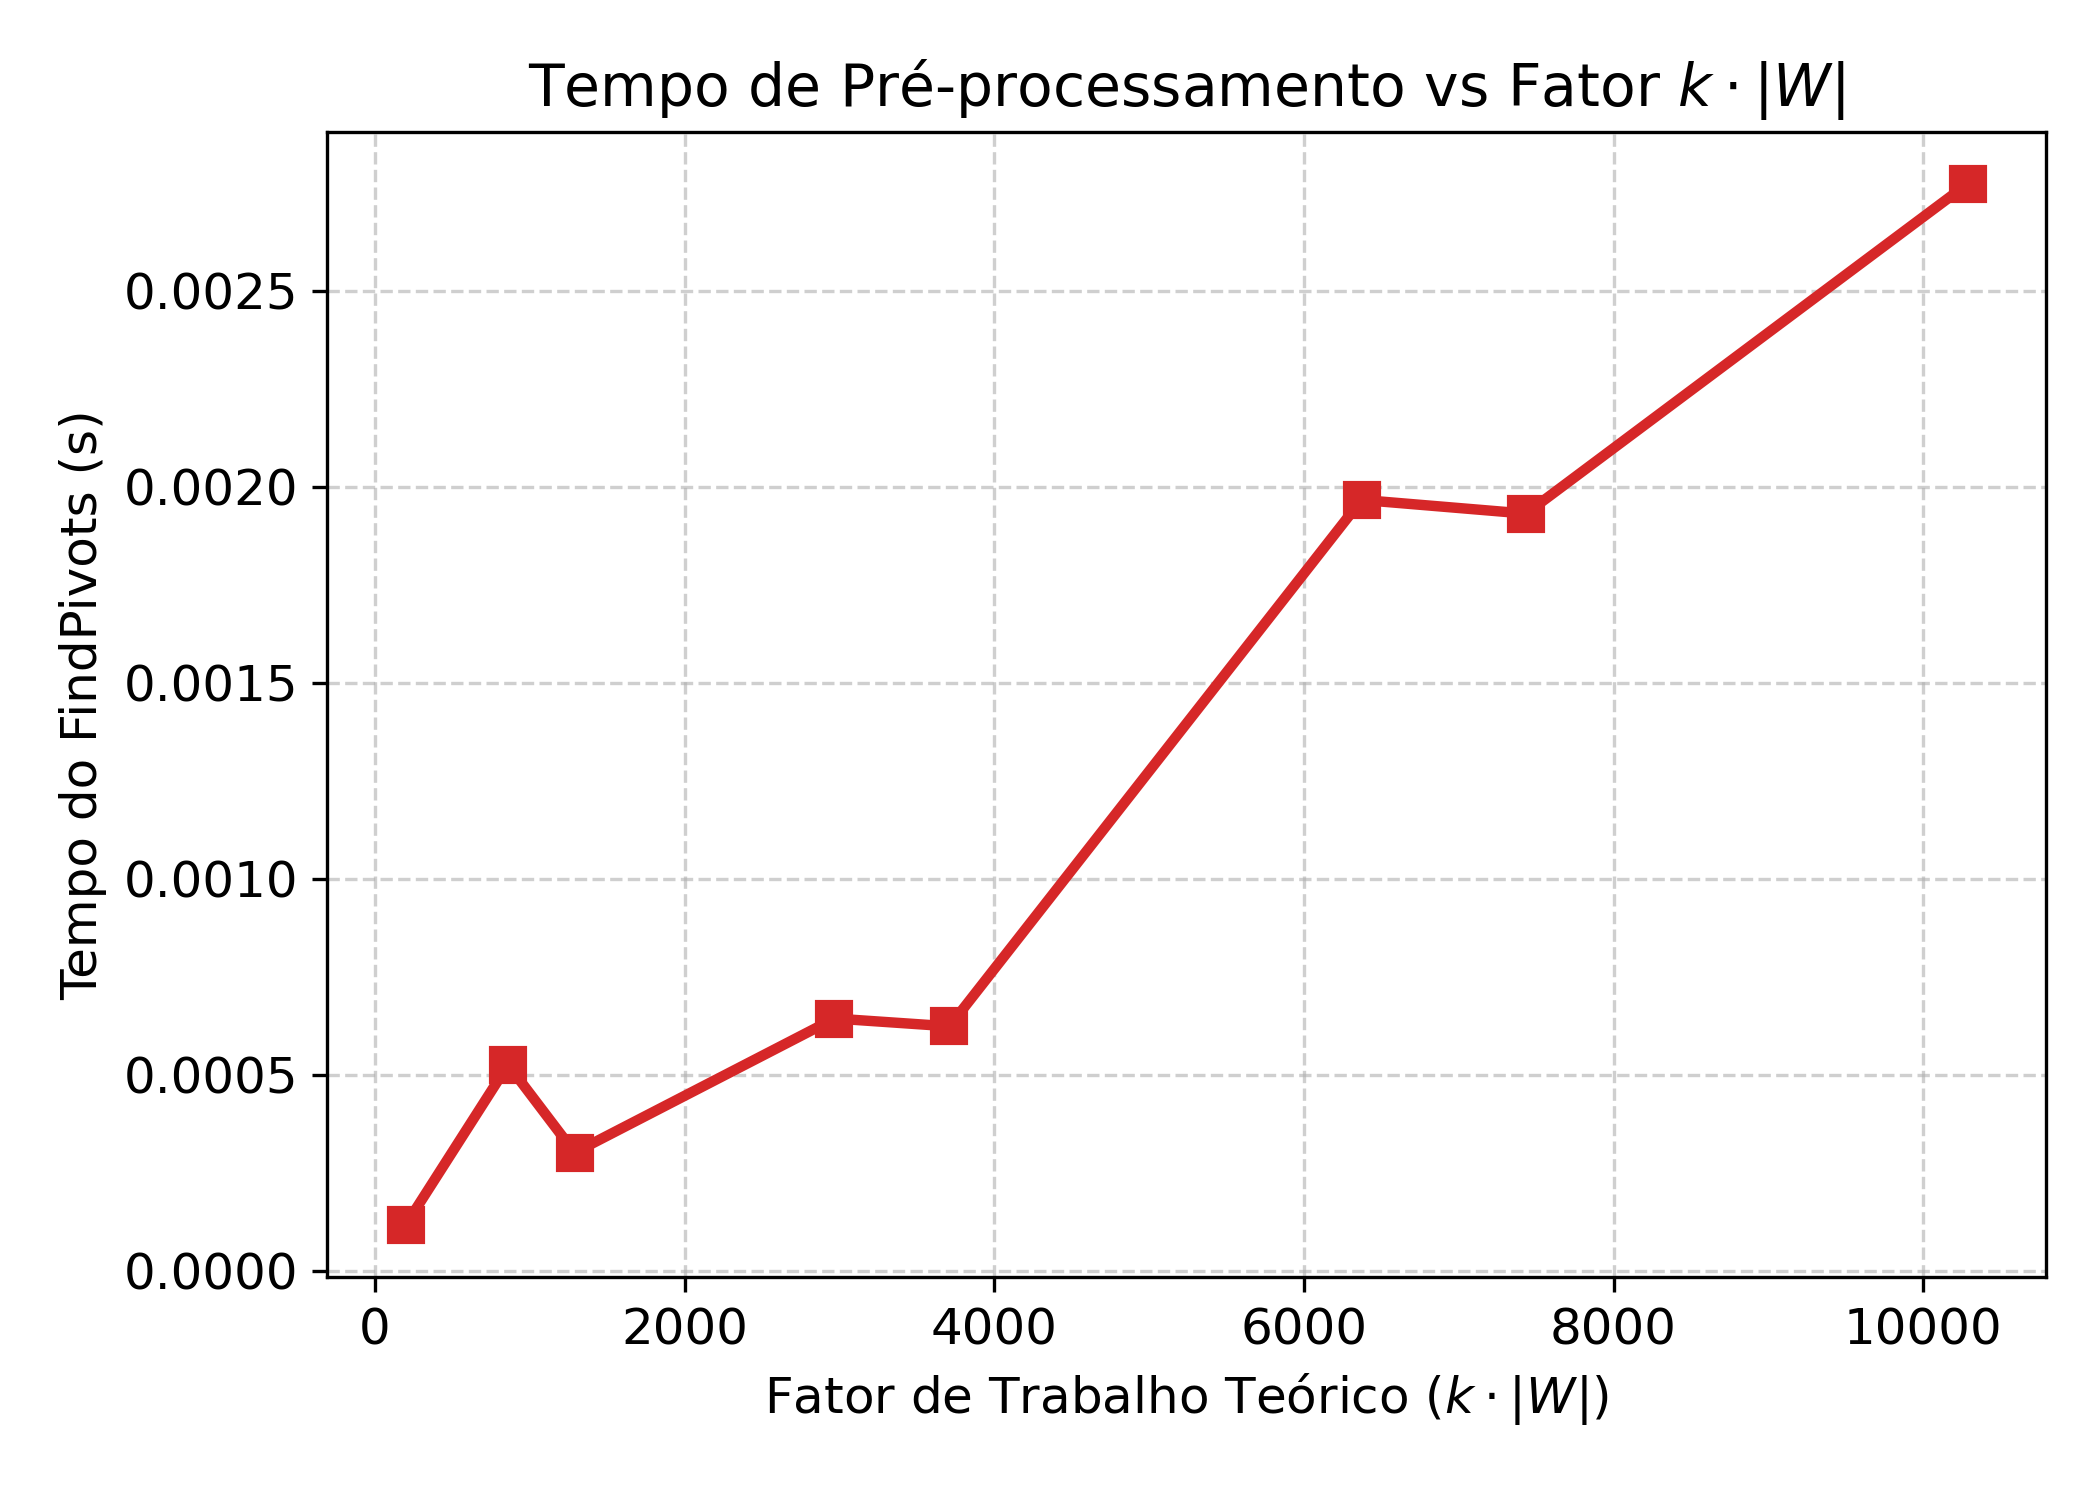
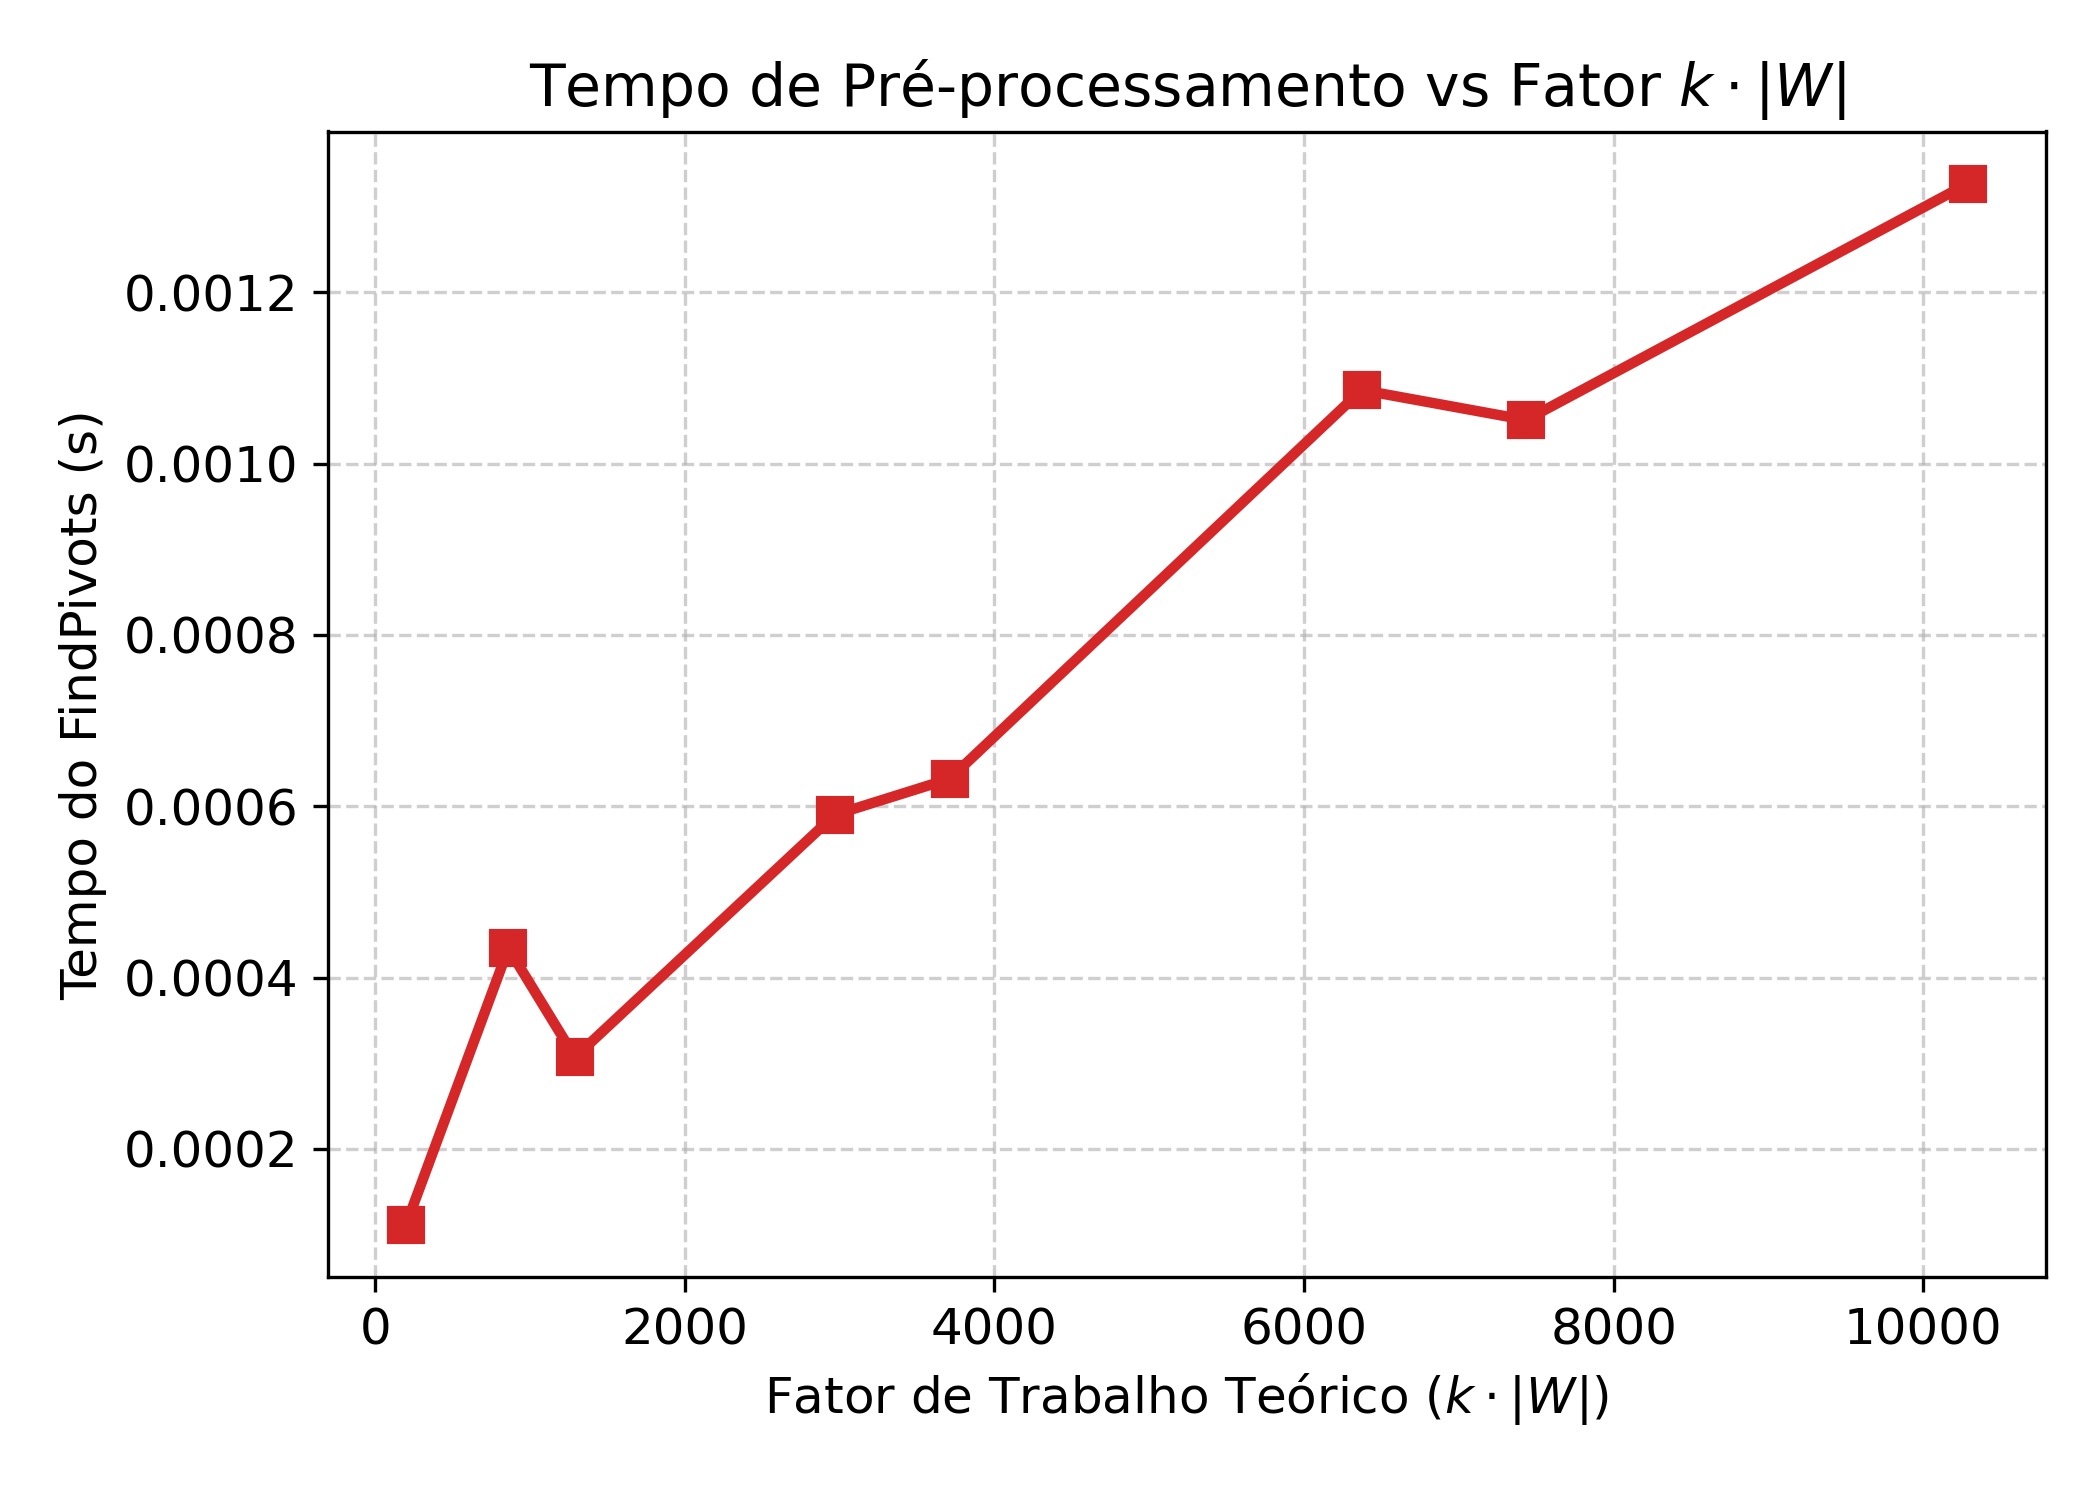
m

diff --git a/Assigment/implementations/main.py b/Assigment/implementations/main.py
@@ -7,18 +7,15 @@ import matplotlib.pyplot as plt
 import networkx as nx
 from typing import List, Tuple
 
-
 def main():
     runner = BenchmarkRunner()
     runner.run_and_export()
-
 
 def tests():
     g, s = Graph.graph_generator(e=1, n=4)
     g.add_edge(2, 0, 0)
     g.draw()
     g.print_adj_list()
-
 
 class Graph:
 
@@ -407,7 +404,6 @@ class Graph:
             s = int(f.readline())
         return graph, s
 
-
 class BenchmarkRunner:
 
     def __init__(self, output_dir: str = "results/"):
@@ -630,7 +626,6 @@ class BenchmarkRunner:
             writer.writeheader()
             writer.writerows(data)
         print(f"\nSuccess! Results exported to: {csv_path}")
-
 
 if __name__ == "__main__":
     main()